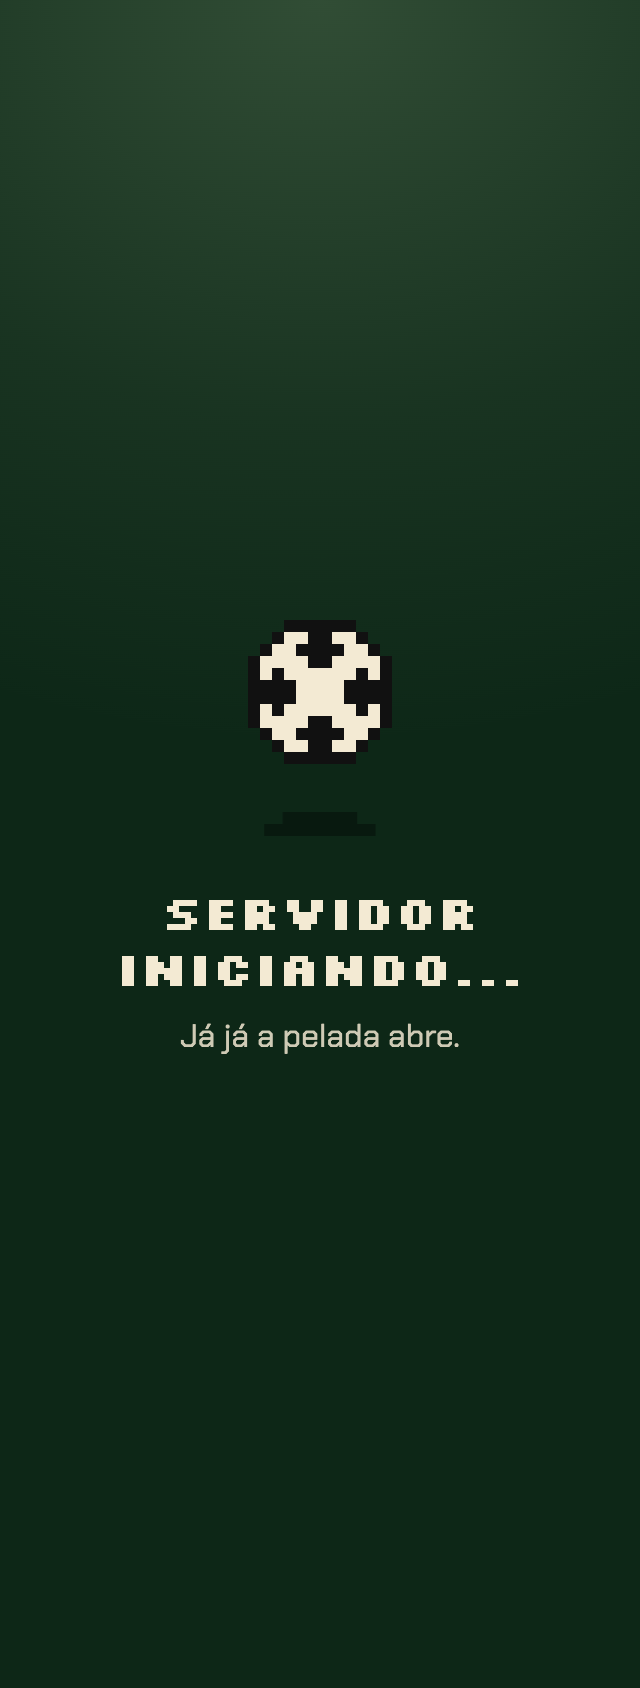
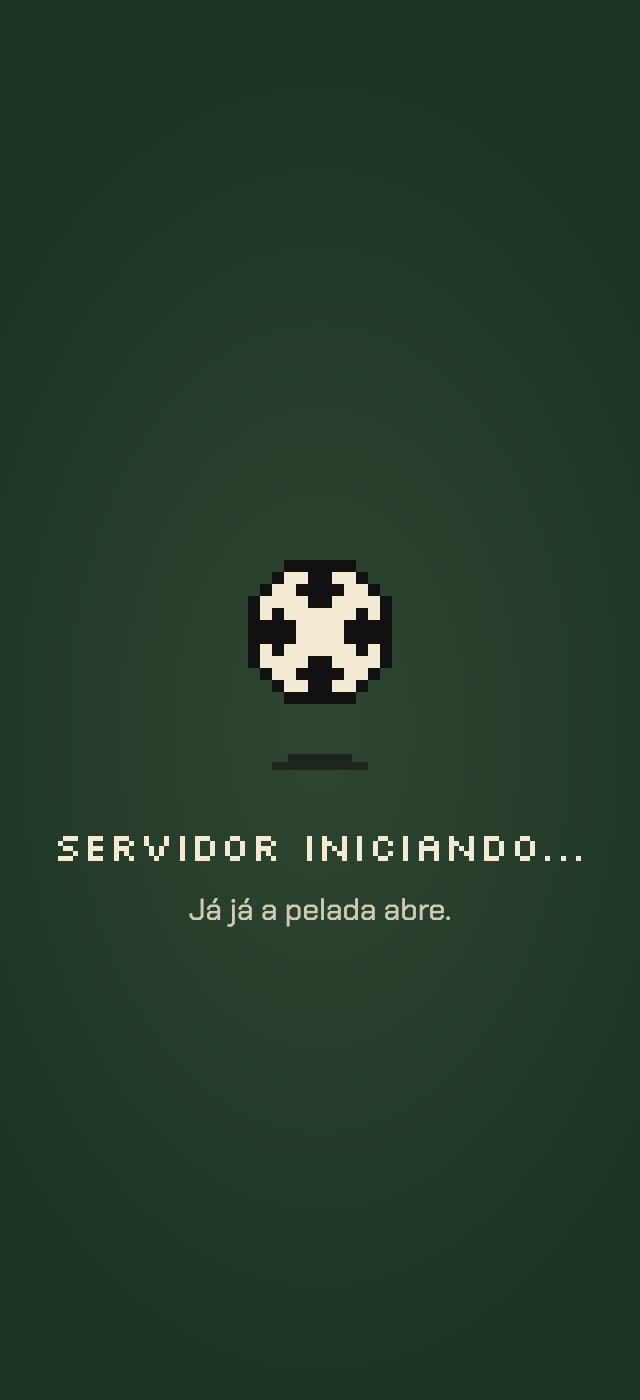
docs(ajustes-feedback): álbum e QA das voltas 6 e 7 (tela de servidor igual ao Paper e code-review)

Changed region(s): [[0.0938, 0.3686, 0.8438, 0.7679]]

diff --git a/docs/specs/ajustes-feedback.md b/docs/specs/ajustes-feedback.md
@@ -7,7 +7,7 @@
 | **Fatia** | `ajustes-feedback` (#17 da Trilha) |
 | **Modo** | Front |
 | **Parte de** | — |
-| **Status** | aprovado em 19 nov 2026 (itens 1 a 4); item 5 aprovado em 19 nov 2026; item 6 aprovado em 20 nov 2026 (opção C, Lenda); QA aprovado na volta 5 |
+| **Status** | aprovado em 19 nov 2026 (itens 1 a 4); item 5 aprovado em 19 nov 2026; item 6 aprovado em 20 nov 2026 (opção C, Lenda); QA aprovado na volta 7 |
 | **Base** | develop @23f7acd |
 | **Depende de** | — |
 | **Toca em** | apps/web/src/features/lineup/generate-block.tsx, apps/web/src/features/lineup/lineup-builder.tsx, apps/web/src/features/pack (pack-cards, share-card só se a carta do Perna de Pau mudar no canvas: não muda), apps/web/src/features/voting (player-card, flop-card), apps/web/src/index.css, apps/web/index.html, docs/lancamento.md, docs/03-roadmap.md |
@@ -192,7 +192,22 @@ F2: depois dos 90 s, o "Tentar de novo" não refazia o pedido pendurado (no TanS
 a promessa); agora `restartQuery` cancela e refaz. As duas correções têm teste. A bola da tela de servidor passou a 72 px,
 como no desenho. Na volta 5 passaram C15–C30, a regressão dos itens 1 a 4 e o pronto da raiz. O JS inicial ficou em
 122,0/150 kB e `/dev/craque` não está no build. O Craque ficou claramente mais chamativo que o Perna de Pau
-(`c23-craque-vs-perna-de-pau.png`). A tela de servidor foi comparada com a **descrição** do desenho aprovado: o Paper
+(`c23-craque-vs-perna-de-pau.png`). **Voltas 6 e 7 (tela de servidor igual ao Paper + code-review): APROVADO na volta 7** (`817e869`). O dono mandou os
+prints aprovados do Paper (`ref-paper-servidor-3-iniciando.png`, `ref-paper-servidor-3b-3c.png`) e pediu a tela igual.
+O título passou a Silkscreen 400, numa linha de 360 a 430 px (20 px em 320). O erro virou o cartão do desenho, com a bola
+em cima, e a sombra ficou fixa. Medido por pixel a 390 px, a tela fica a até ~5 px do desenho nos três estados
+(comparativos `cmp-servidor-*.png`). O texto corrido segue em Chakra Petch (DS v1.4), e o Paper usa Inter. O
+code-review também foi tratado:
+- a: o selo do PNG do Compartilhar ficou alinhado com a tela;
+- b: o Perna de Pau nunca compartilha, agora com guarda e teste;
+- c: o Craque sozinho fica largo no resultado (falha da volta 6, corrigida na 7);
+- d: o `<main>` saiu do `role=status`;
+- e: um `<style>` inline no `<head>` evita o piscar branco em modo claro;
+- f: o `import type` foi para o topo;
+- g: as moedas param com Reduzir movimento e o botão em loading fica com `cursor-wait`;
+- h: o `restartQuery` só cancela a chave exata.
+
+A tela de servidor foi comparada com a **descrição** do desenho aprovado: o Paper
 ficou fora (limite semanal do plano) e não deu para ler os quadros 3, 3b e 3c. Diferenças: o erro usa o `ErrorState`
 padrão do app (tecla amarela com ícone, sem a bola), o subtítulo tem 16 px (15 no desenho) e "SERVIDOR INICIANDO..."
 quebra em duas linhas de 320 a 390 px.
